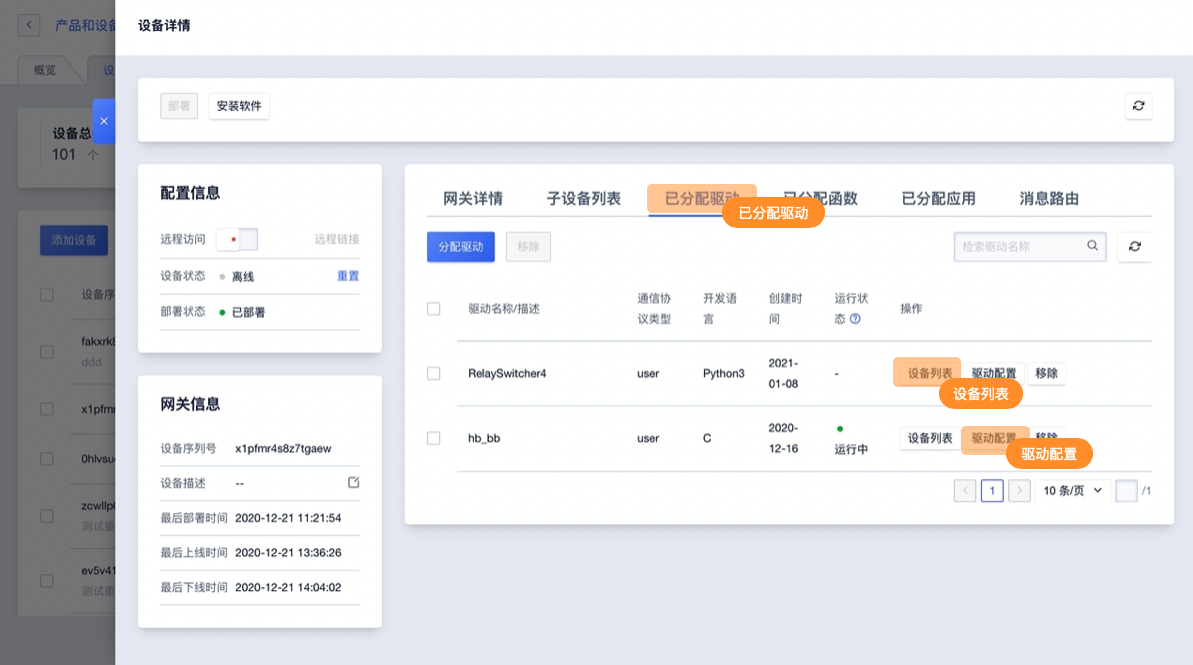
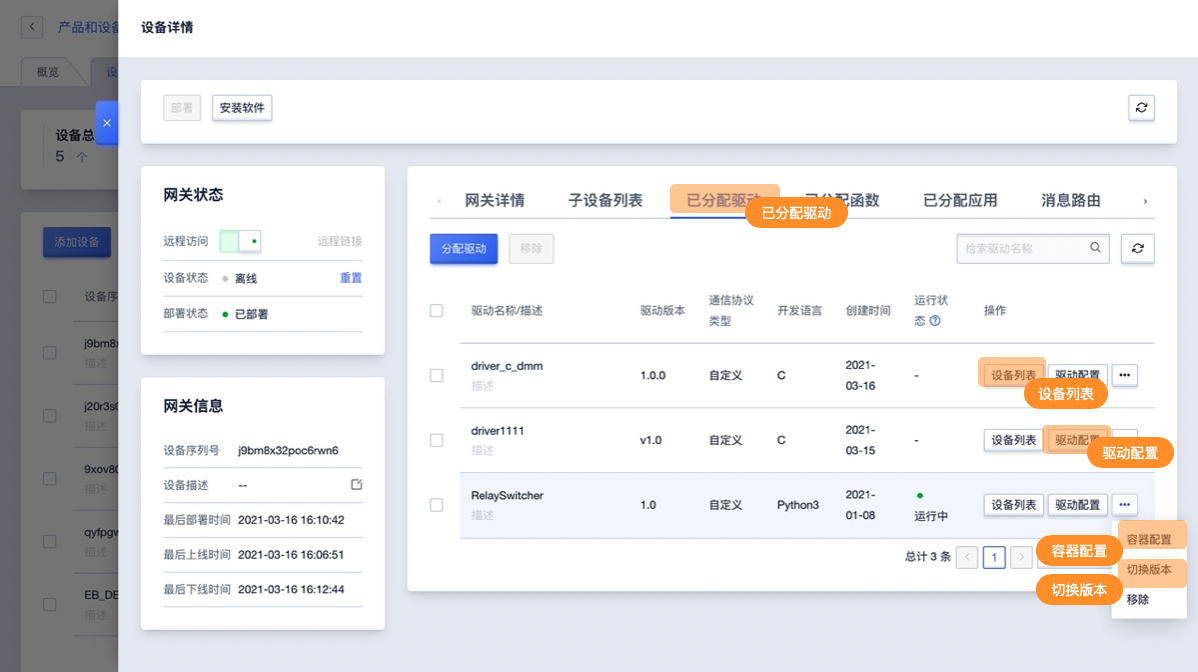
add_docs

diff --git a/控制台操作指南/网关管理/设备驱动/驱动开发及添加.md b/控制台操作指南/网关管理/设备驱动/驱动开发及添加.md
@@ -59,6 +59,12 @@ if __name__ == "__main__":
 
 ### 驱动相关配置
 
+驱动相关配置可在创建驱动时添加默认配置，默认配置包括驱动配置、子设备配置、容器配置。默认配置会随驱动分配到网关中。
+
+* 默认配置为非必填，可直接在网关的驱动相关配置中进行操作；
+* 默认配置随网关分配后，依然可进行修改：
+* 如网关已经进行配置信息的填写，默认配置不会随网关分配时修改已经填写的配置信息；
+
 #### 驱动配置
 
 驱动配置在【网关详情】 -> 【已分配驱动】->【驱动配置】修改，驱动配置一般包括两方面内容：
@@ -95,34 +101,45 @@ if __name__ == "__main__":
 
 ### 操作步骤
 
+设备驱动支持版本管理，添加时需先填写驱动信息创建驱动，然后在版本管理中添加对应版本。
+
+**添加驱动**
+
 1. 选择<驱动管理>标签
 
-2. <官方/自定义>：选择官方驱动或自定义添加驱动，官方驱动包括RelaySwitcher示例和Modbus驱动
+2. <官方/自定义>：选择官方驱动或自定义添加驱动，如需添加驱动选择自定义驱动；
 
 3. 点击<新增驱动>，在弹出的对话框中输入驱动相关信息
 
    - 驱动名称：驱动的名称，比如Modbus-RTU
-   - 通信协议类型：驱动应用的子设备通信协议，比如Modbus、Bluetooth、自定义等；
+   - 通信协议类型：驱动应用的子设备通信协议，比如Modbus、OPC-UA、自定义等；
    - 开发语言：驱动使用的开发语言，支持Python3和C两种；
-   - CPU架构：当驱动开发语言为C语言是，需要选择CPU架构，分为x86_64、armv7、armv8；
+   - CPU架构：当驱动开发语言为C语言时，需要选择CPU架构，分为x86_64、armv7、armv8；
    - 适用软件版本：可以在IoT Edge哪个版本上使用；
    - 驱动描述：对驱动的描述；
-   - 驱动上传：上传驱动，支持zip格式文件，大小<100M；
-
-4. 点击<确定>，添加**驱动**成功；
-
-5. 添加驱动成功后，可以在驱动列表中查看该驱动
-
-   - 基本信息：驱动名称、驱动描述、通信协议类型、开发语言、CPU架构、适用软件版本、创建时间等；
-   - 操作：
-     - 修改：对驱动进行修改，仅支持驱动名称、适用软件版本、驱动描述、驱动文件的修改
-     - 下载：下载该驱动文件
-     - 删除：可以删除该驱动，删除驱动需要先移除该驱动与网关的分配关系，参考分配驱动
-
-6. <批量删除>：同时选择多个驱动，点击<删除>按钮，可以批量删除驱动；
-
-   > **注：驱动删除需要先移除驱动与网关的分配关系，参考分配驱动**
 
 ![图片](../../../images/设备驱动开发及添加-4.png)
 
 ![图片](../../../images/设备驱动开发及添加-5.png)
+
+**添加对应版本**
+
+1. 在已经创建的驱动列表中找到需添加版本的驱动点击<版本管理>进入版本管理界面
+2. 在版本列表中点击<添加版本>，录入信息如下：
+   - 驱动版本：驱动的版本信息；
+   - 驱动文件：上传驱动，支持zip格式文件，大小<100M；
+   - 版本描述：当前版本的描述
+   - 默认配置：设备驱动相关的默认配置，包括驱动配置、设备配置、容器配置；
+3. 点击<确定>，完成版本添加；
+
+添加驱动成功后，可以在版本列表中查看该驱动
+
+- 基本信息：驱动名称、驱动描述、通信协议类型、开发语言、CPU架构、适用软件版本、创建时间等；
+- 操作：
+  - 修改：对驱动进行修改，支持驱动描述、版本描述驱动文件及默认配置的修改；
+  - 下载：下载该驱动文件
+  - 删除：可以删除该驱动，删除某一版本驱动需要先移除该版本驱动与网关的分配关系，参考分配驱动；如删除驱动则或删除所有驱动版本。
+
+![图片](../../../images/设备驱动开发及添加-6.png)
+
+![图片](../../../images/设备驱动开发及添加-7.png)

diff --git a/控制台操作指南/网关管理/本地应用/控制台操作指南.md b/控制台操作指南/网关管理/本地应用/控制台操作指南.md
@@ -5,27 +5,49 @@
 ### 添加应用
 **1、进入目标网关设备详情，选择【本地应用】功能，点击【新增应用】**
 ![添加函数](../../../images/本地应用-2.png)
-**2、在本地应用编辑框内编写应用信息并上传附件**
+**2、在本地应用编辑框内编写应用信息**
 
 应用类型说明：本地应用支持文件上传、镜像地址两种类型
 
 - 文件上传需录入信息
   - 开发语言：Python3、C
   - 适用软件版本：适用于IoT Edge的版本；
-  - 应用文件：上传应用文件包；
 - 镜像地址需录入信息
   - 适用软件版本：适用于IoT Edge的版本；
-  - 镜像地址：应用镜像所在的地址路径；
 
 ![添加函数](../../../images/本地应用-3.png)
 
+**3、添加应用版本**
+
+进入对应应用的版本管理，在版本管理列表中添加版本
+
+* 应用版本：应用的版本
+* 应用文件：当应用类型为文件上传，需上传文件。请上传一个zip格式的文件，大小100M以内
+* 镜像地址：当应用类型为镜像地址，需填写镜像地址。
+* 描述：当前应用版本的描述
+
+![添加函数](../../../images/本地应用-10.png)
+![添加函数](../../../images/本地应用-11.png)
+
+
+
+### 应用相关配置
+
+应用相关配置可在创建应用时添加默认配置，默认配置包括应用配置、容器配置、环境变量配置。默认配置会随应用分配到网关中。
+
+* 默认配置为非必填，可直接在网关的应用相关配置中进行操作；
+* 默认配置随网关分配后，依然可进行修改：
+* 如网关已经进行配置信息的填写，默认配置不会随网关分配时修改已经填写的配置信息；
+
 ### 修改本地应用
+
 **在应用列表中选择需要修改的应用，点击【修改】**
 修改说明：修改应用会影响到已经分配到网关的应用，所以编写应用的时候尽量保持应用的通用性，针对具体网关的定制功能可以通过应用配置实现。
 
 ### 删除应用
 **在应用列表中选择需要修改的应用，点击【删除】**
 删除说明：如应用已经分配到网关设备中则无法删除
+
 
 
 ## 分配应用及网关相关设置
@@ -61,14 +83,6 @@
 ![分配函数](../../../images/本地应用-9.png)
 
 
-
-
-
-### 修改已分配应用
-
-**在【已分配应用列表】找到需要修改的应用【修改】**
-
-修改说明：修改网关已分配的应用会影响到未分配的应用以及分配到其他网关的应用所以编写应用时候尽量保持函数的通用性，针对具体网关的定制功能可以通过应用配置实现。
 
 ### 其他说明
 网关设备的分配应用或其他相关的应用修改，需部重新部署以下发到网关设备中方可生效。

diff --git a/IoT平台开发指南/API列表.md b/IoT平台开发指南/API列表.md
@@ -196,10 +196,10 @@
 | 更新应用信息       | [查看链接](uiot-stack/IoT平台开发指南/网关管理/本地应用?id=更新应用信息) |
 | 删除应用           | [查看链接](uiot-stack/IoT平台开发指南/网关管理/本地应用?id=删除应用) |
 | 获取应用列表       | [查看链接](uiot-stack/IoT平台开发指南/网关管理/本地应用?id=获取应用列表) |
-| 创建应用版本(文件)       | [查看链接](uiot-stack/IoT平台开发指南/网关管理/本地应用?id=创建应用版本(文件)) |
-| 创建应用版本(镜像) | [查看链接](uiot-stack/IoT平台开发指南/网关管理/本地应用?id=创建应用版本(镜像)) |
-| 更新应用版本信息(文件) | [查看链接](uiot-stack/IoT平台开发指南/网关管理/本地应用?id=更新应用版本信息(文件)) |
-| 更新应用信息(镜像) | [查看链接](uiot-stack/IoT平台开发指南/网关管理/本地应用?id=更新应用信息(镜像)) |
+| 创建应用版本(文件)       | [查看链接](uiot-stack/IoT平台开发指南/网关管理/本地应用?id=创建应用版本-文件) |
+| 创建应用版本(镜像) | [查看链接](uiot-stack/IoT平台开发指南/网关管理/本地应用?id=创建应用版本-镜像) |
+| 更新应用版本信息(文件) | [查看链接](uiot-stack/IoT平台开发指南/网关管理/本地应用?id=更新应用版本信息-文件) |
+| 更新应用信息(镜像) | [查看链接](uiot-stack/IoT平台开发指南/网关管理/本地应用?id=更新应用信息-镜像) |
 | 删除应用版本       | [查看链接](uiot-stack/IoT平台开发指南/网关管理/本地应用?id=删除应用版本) |
 | 获取应用版本列表 | [查看链接](uiot-stack/IoT平台开发指南/网关管理/本地应用?id=获取应用版本列表) |
 | 获取可绑定应用列表 | [查看链接](uiot-stack/IoT平台开发指南/网关管理/本地应用?id=获取可绑定应用列表) |

diff --git a/控制台操作指南/网关管理/设备驱动/分配驱动.md b/控制台操作指南/网关管理/设备驱动/分配驱动.md
@@ -13,16 +13,19 @@
 3. 选中<已分配驱动>标签，点击<分配驱动>，弹出的分配驱动列表中
    - <官方/自定义>：选择驱动类型
    - 驱动名称：可用驱动的名称
+   - 驱动版本：需要使用的驱动版本
    - 通信协议类型：驱动适用的通信协议
    - 开发语言：驱动开发使用的语言
    - CPU架构：如果是C语言开发，适用的CPU架构
-   - 使用软件版本：当前驱动适用的软件版本
+   - 网关版本：当前驱动适用的网关软件版本
 4. 选择需要分配给该网关的驱动，点击<分配>，可以同时选中多个进行分配，分配完成后关闭该弹窗；
 5. 可以看到已分配的驱动列表
-   - 驱动基本信息：驱动名称、驱动描述、通信协议类型、开发语言、CPU架构、适用软件版本、创建时间；
+   - 驱动基本信息：驱动名称、驱动描述、驱动版本、通信协议类型、开发语言、创建时间、运行状态；
    - 操作：
      - <设备列表>：绑定子设备到该驱动，子设备可以参考创建子设备
      - <驱动配置>：驱动的配置文件，用于配置驱动本身的属性。比如网关作为Modbus Master时使用的串口设备(/dev/ttyS0)、波特率(115200)等，详细可参考驱动配置
+     - <容器配置>：当使用Docker模式时容器的相关配置
+     - <切换版本>：切换当前驱动的版本
 
 ![图片](../../../images/分配驱动-1.png)
 
@@ -85,6 +88,9 @@
 
 ![分配函数](../../../images/本地应用-8.png)
 
+### 切换驱动版本
+
+在操作列表选择切换版本，并选择要切换的版本即可。
 
 ### 驱动移除
 

diff --git a/控制台操作指南/网关管理/函数计算/控制台操作指南.md b/控制台操作指南/网关管理/函数计算/控制台操作指南.md
@@ -8,7 +8,20 @@
 **2、在函数计算编辑框内编写函数**
 ![添加函数](../../../images/函数计算-5.png)
 
+
+
+### 函数相关配置
+
+函数相关配置可在创建函数时添加默认配置，默认配置会随应用分配到网关中。
+
+* 默认配置为非必填，可直接在网关的应用相关配置中进行操作；
+* 默认配置随网关分配后，依然可进行修改：
+* 如网关已经进行配置信息的填写，默认配置不会随网关分配时修改已经填写的配置信息；
+
+
+
 ### 修改函数
+
 **在函数列表中选择需要修改的函数，点击【修改】**
 修改说明：修改函数会影响到已经分配到网关的函数，所以编写函数的时候尽量保持函数的通用性，针对具体网关的定制功能可以通过函数配置实现。
 

diff --git a/IoT平台开发指南/网关管理/本地应用.md b/IoT平台开发指南/网关管理/本地应用.md
@@ -733,7 +733,7 @@ POST JSON 参数
 }
 ```
 
---- 
+---
 
 #### 更新网关应用版本
 
@@ -770,7 +770,7 @@ JSON 参数
 
 ---
 
-### 创建应用版本(文件)
+### 创建应用版本-文件
 (注意 Content-Type: multipart/form-data，FormData)
 
 ```http
@@ -829,7 +829,7 @@ Form 参数
 ```
 
 ---
-### 创建应用版本(镜像) 
+### 创建应用版本-镜像 
 
 ```http
 POST /api/v1/application/version/create_image   HTTP/1.1
@@ -880,7 +880,7 @@ JSON 参数
 ```
 ---
 
-### 更新应用版本信息(文件)
+### 更新应用版本信息-文件
 
 ```http
 POST /api/v1/application/version/update_file  HTTP/1.1
@@ -928,7 +928,7 @@ form 参数
 
 ---
 
-### 更新应用信息(镜像)
+### 更新应用信息-镜像
 
 ```http
 POST /api/v1/application/version/update_image   HTTP/1.1

diff --git a/IoT平台开发指南/数据解析.md b/IoT平台开发指南/数据解析.md
@@ -1,6 +1,5 @@
 # 自定义数据解析
 
----
 ### 获取脚本
 
 ```http
